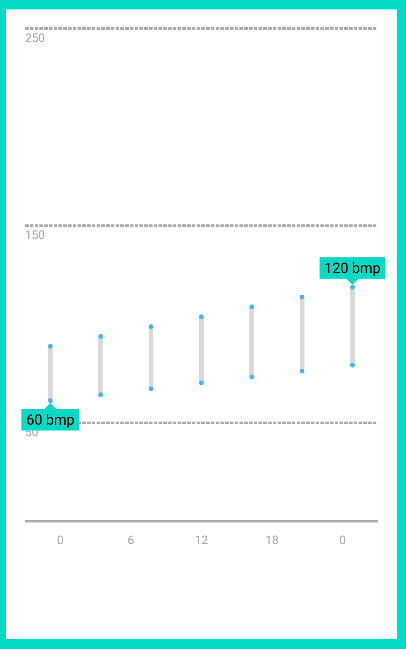
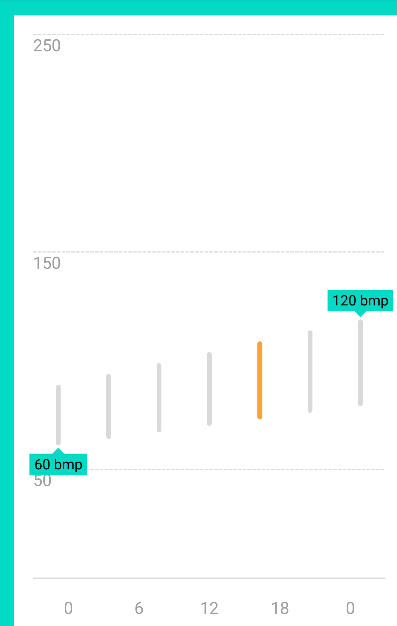
update

diff --git a/library/src/main/java/com/lxk/heartrate/HeartRateGraphWidget.java b/library/src/main/java/com/lxk/heartrate/HeartRateGraphWidget.java
@@ -14,8 +14,6 @@ import android.util.Log;
 import android.view.MotionEvent;
 import android.view.View;
 
-
-
 import com.lxk.heartrate.bean.HeartRateBean;
 
 import java.lang.annotation.Retention;
@@ -42,7 +40,7 @@ public class HeartRateGraphWidget extends View {
     /**
      * 当时选中的时间轴类型
      */
-    private int curShowType = DAY;
+    private int curShowType;
     /**
      * 时间轴时间文字集合
      */
@@ -71,6 +69,10 @@ public class HeartRateGraphWidget extends View {
      * 虚线 实线的颜色
      */
     private int dottedLineColor, solidLineColor;
+    /**
+     * 实线下方的内容高度
+     */
+    private float belowSolidLineHeight;
     /**
      * 坐标系 标记文字的颜色
      * 最高最低心率的文字颜色
@@ -107,7 +109,7 @@ public class HeartRateGraphWidget extends View {
     /**
      * 每天显示的心率渐变效果
      */
-    private LinearGradient linearGradient;
+    private LinearGradient linearGradient, selectLineGradient;
     /**
      * 柱状图的宽度
      */
@@ -121,7 +123,6 @@ public class HeartRateGraphWidget extends View {
      * 选中item线的宽度和颜色
      */
     private float selectLineWidth;
-    private int selectLineColor;
 
     /**
      * 是否显示每天的心率折线图的阴影
@@ -133,7 +134,23 @@ public class HeartRateGraphWidget extends View {
      * 每天的心率折线图的阴影的开始和结束颜色
      */
     private int shaderColorStart, shaderColorEnd;
+    /**
+     * 选中线的渐变颜色
+     */
+    private int selectLineColorStart, selectLineColorMiddle, selectLineColorEnd;
+    /**
+     * 柱状图选中的颜色
+     */
+    private int selectLineColorInHistogram;
 
+    /**
+     * 心跳警告的最大最小值
+     */
+    private int heartRateWarnMax, heartRateWarnMin;
+    /**
+     * 心跳警告线的颜色和高度
+     */
+    private int heartRateWarnLineColor, heartRateWarnLineHeight;
     /**
      * 心率数据集合
      */
@@ -156,6 +173,10 @@ public class HeartRateGraphWidget extends View {
      * 选中item的 x坐标
      */
     private float selectedPointX = -1;
+    /**
+     * 选中柱状图item的 最大最小坐标
+     */
+    private float selectedHistogramMax = -1, selectedHistogramMin = -1;
 
     public HeartRateGraphWidget(Context context) {
         this(context, null);
@@ -179,6 +200,9 @@ public class HeartRateGraphWidget extends View {
 
     private void initAttrs(Context context, AttributeSet attrs) {
         TypedArray ta = context.obtainStyledAttributes(attrs, R.styleable.HeartRateGraphWidget);
+
+        curShowType = ta.getInt(R.styleable.HeartRateGraphWidget_cur_show_type, DAY);
+
         solidLineHeight = ta.getDimensionPixelOffset(R.styleable.HeartRateGraphWidget_solid_line_height, 10);
         solidLineColor = ta.getColor(R.styleable.HeartRateGraphWidget_solid_line_color, 0x26000000);
 
@@ -186,6 +210,7 @@ public class HeartRateGraphWidget extends View {
         dottedLineWidth = ta.getDimensionPixelOffset(R.styleable.HeartRateGraphWidget_dotted_line_width, 30);
         dottedLineGap = ta.getDimensionPixelOffset(R.styleable.HeartRateGraphWidget_dotted_line_gap, 10);
         dottedLineColor = ta.getColor(R.styleable.HeartRateGraphWidget_dotted_line_color, 0x26000000);
+        belowSolidLineHeight = ta.getDimensionPixelOffset(R.styleable.HeartRateGraphWidget_below_solid_line_height, DensityUtils.dpToPx(getContext(), 40));
 
         markTextColor = ta.getColor(R.styleable.HeartRateGraphWidget_mark_text_color, 0x61000000);
         markTextSize = ta.getDimensionPixelOffset(R.styleable.HeartRateGraphWidget_mark_text_size, DensityUtils.dpToPx(context, 10));
@@ -210,7 +235,10 @@ public class HeartRateGraphWidget extends View {
         histogramLineColor = ta.getColor(R.styleable.HeartRateGraphWidget_histogram_line_color, 0xFFD8D8D8);
         histogramDotColor = ta.getColor(R.styleable.HeartRateGraphWidget_histogram_dot_color, 0xFF43B6F4);
 
-        selectLineColor = ta.getColor(R.styleable.HeartRateGraphWidget_select_line_color, 0xFFF33838);
+        selectLineColorStart = ta.getColor(R.styleable.HeartRateGraphWidget_select_line_color_start, 0x2AFF9319);
+        selectLineColorMiddle = ta.getColor(R.styleable.HeartRateGraphWidget_select_line_color_middle, 0xFFFF9319);
+        selectLineColorEnd = ta.getColor(R.styleable.HeartRateGraphWidget_select_line_color_end, 0x2AFF9319);
+        selectLineColorInHistogram = ta.getColor(R.styleable.HeartRateGraphWidget_select_line_color_in_histogram, 0xFFFFA239);
         selectLineWidth = ta.getDimensionPixelOffset(R.styleable.HeartRateGraphWidget_select_line_width, 10);
 
         showDayShader = ta.getBoolean(R.styleable.HeartRateGraphWidget_show_day_shader, true);
@@ -219,6 +247,9 @@ public class HeartRateGraphWidget extends View {
 
         shaderColorStart = ta.getColor(R.styleable.HeartRateGraphWidget_shader_color_start, 0xFFF33838);
         shaderColorEnd = ta.getColor(R.styleable.HeartRateGraphWidget_shader_color_end, 0x10FF0000);
+
+        heartRateWarnLineColor = ta.getColor(R.styleable.HeartRateGraphWidget_heart_rate_warn_line_color, 0xFFFF0000);
+        heartRateWarnLineHeight = ta.getDimensionPixelOffset(R.styleable.HeartRateGraphWidget_heart_rate_warn_line_height, 5);
         ta.recycle();
     }
 
@@ -234,8 +265,6 @@ public class HeartRateGraphWidget extends View {
         maxMinPaint = new Paint(Paint.ANTI_ALIAS_FLAG);
 
         selectPaint = new Paint(Paint.ANTI_ALIAS_FLAG);
-        selectPaint.setColor(selectLineColor);
-        selectPaint.setStrokeWidth(selectLineWidth);
         selectPaint.setStyle(Paint.Style.STROKE);
 
         histogramPaint = new Paint(Paint.ANTI_ALIAS_FLAG);
@@ -245,6 +274,23 @@ public class HeartRateGraphWidget extends View {
         dayHeartRatePaint.setStrokeJoin(Paint.Join.ROUND);
 
         dashPathEffect = new DashPathEffect(new float[]{dottedLineWidth, dottedLineGap}, 0);
+    }
+
+    /**
+     * 设置心跳警告的最大最小值
+     */
+    public void setHeartRateWarnMax(int heartRateWarnMax, int heartRateWarnMin) {
+        this.heartRateWarnMax = heartRateWarnMax;
+        this.heartRateWarnMin = heartRateWarnMin;
+        postInvalidate();
+    }
+
+    /**
+     * 更新当前显示状态
+     */
+    public void setCurShowType(@ShowType int curShowType) {
+        this.curShowType = curShowType;
+        postInvalidate();
     }
 
     /**
@@ -279,7 +325,10 @@ public class HeartRateGraphWidget extends View {
     }
 
     void reset() {
+        linearGradient = null;
+        selectLineGradient = null;
         touchedX = touchedY = -1;
+        selectedHistogramMin = selectedHistogramMax = -1;
         selectedPointX = -1;
     }
 
@@ -290,7 +339,7 @@ public class HeartRateGraphWidget extends View {
         contentTop = getPaddingTop();
         contentWidth = getMeasuredWidth() - contentLeft - getPaddingRight();
         contentHeight = getMeasuredHeight() - contentTop - getPaddingBottom();
-        lineGapHeight = contentHeight / 3F;
+        lineGapHeight = (contentHeight - belowSolidLineHeight) / 2.5F;
     }
 
     @Override
@@ -323,6 +372,12 @@ public class HeartRateGraphWidget extends View {
     @Override
     protected void onDraw(Canvas canvas) {
         super.onDraw(canvas);
+        if (selectLineGradient == null && curShowType == DAY) {
+            selectLineGradient = new LinearGradient(getMeasuredWidth() / 2F, contentTop,
+                    getMeasuredWidth() / 2F, contentTop + contentHeight,
+                    new int[]{selectLineColorStart, selectLineColorMiddle, selectLineColorEnd},
+                    null, Shader.TileMode.CLAMP);
+        }
         drawLineAndMarkText(canvas);
         drawHeartRateGraph(canvas);
     }
@@ -354,7 +409,25 @@ public class HeartRateGraphWidget extends View {
         y -= lineGapHeight / 2F;
         linePaint.setStrokeWidth(solidLineHeight);
         canvas.drawLine(contentLeft, y, contentLeft + contentWidth, y, linePaint);
+
+        drawWarnLine(canvas);
         drawTimeLineText(canvas, y + timeStringTopMargin, textY);
+    }
+
+    /**
+     * 绘制警戒线
+     */
+    private void drawWarnLine(Canvas canvas) {
+        linePaint.setStrokeWidth(heartRateWarnLineHeight);
+        linePaint.setColor(heartRateWarnLineColor);
+        if (heartRateWarnMax != 0) {
+            float maxY = lineGapHeight * 2.5f * (250 - heartRateWarnMax) / 250;
+            canvas.drawLine(contentLeft, maxY, contentLeft + contentWidth, maxY, linePaint);
+        }
+        if (heartRateWarnMin != 0) {
+            float minY = lineGapHeight * 2.5f * (250 - heartRateWarnMin) / 250;
+            canvas.drawLine(contentLeft, minY, contentLeft + contentWidth, minY, linePaint);
+        }
     }
 
     /**
@@ -393,7 +466,22 @@ public class HeartRateGraphWidget extends View {
         if (selectedPointX == -1) {
             return;
         }
-        canvas.drawLine(selectedPointX, contentTop, selectedPointX, contentTop + lineGapHeight * 2.5F, selectPaint);
+        if (curShowType == DAY) {
+            selectPaint.setStrokeCap(Paint.Cap.BUTT);
+            selectPaint.setStrokeWidth(selectLineWidth);
+            selectPaint.setShader(selectLineGradient);
+            canvas.drawLine(selectedPointX, contentTop, selectedPointX, contentTop + lineGapHeight * 2.5F, selectPaint);
+            return;
+        }
+        if (selectedHistogramMin == -1) {
+            return;
+        }
+        selectPaint.setShader(null);
+        selectPaint.setStrokeCap(Paint.Cap.ROUND);
+        selectPaint.setStrokeWidth(histogramWidth);
+        selectPaint.setStyle(Paint.Style.FILL);
+        selectPaint.setColor(selectLineColorInHistogram);
+        canvas.drawLine(selectedPointX, selectedHistogramMax + histogramWidth, selectedPointX, selectedHistogramMin - histogramWidth, selectPaint);
     }
 
     /**
@@ -465,11 +553,14 @@ public class HeartRateGraphWidget extends View {
         }
         canvas.drawPath(dayHeartRatePath, dayHeartRatePaint);
         if (showDayShader) {
-            linearGradient = new LinearGradient(getMeasuredWidth() / 2F, maxPosition[1],
-                    getMeasuredWidth() / 2F, startY,
-                    new int[]{shaderColorStart, shaderColorEnd},
-                    null, Shader.TileMode.CLAMP);
+            if (linearGradient == null) {
+                linearGradient = new LinearGradient(getMeasuredWidth() / 2F, maxPosition[1],
+                        getMeasuredWidth() / 2F, startY,
+                        new int[]{shaderColorStart, shaderColorEnd},
+                        null, Shader.TileMode.CLAMP);
+            }
             dayHeartRatePaint.setShader(linearGradient);
+            canvas.drawPath(dayHeartRateShaderPath, dayHeartRatePaint);
             dayHeartRatePaint.setStyle(Paint.Style.FILL);
             canvas.drawPath(dayHeartRateShaderPath, dayHeartRatePaint);
             dayHeartRatePaint.setShader(null);
@@ -519,7 +610,6 @@ public class HeartRateGraphWidget extends View {
         configMaxMinRatePath(minRatePath, minPosition, minRateTotalLen, height, false);
         canvas.drawPath(minRatePath, maxMinPaint);
         maxMinPaint.setColor(MaxMinTextColor);
-        maxMinPaint.setStyle(Paint.Style.STROKE);
         canvas.drawText(maxRateString, maxPosition[0] - maxRateLen / 2,
                 maxPosition[1] - maxMinTriAngleHeight - height + maxMinBlockTopBottomPadding - maxMinPaint.ascent(),
                 maxMinPaint);
@@ -561,10 +651,14 @@ public class HeartRateGraphWidget extends View {
 
         for (List<HeartRateBean> beans : dataList) {
             for (HeartRateBean bean : beans) {
-                float x = getPaddingLeft() + perWidth * bean.index - perWidth / 2;
-                checkSelectItem(bean, x, histogramWidth);
+                float x = contentLeft + perWidth * bean.index - perWidth / 2;
+                checkSelectItem(bean, x, histogramWidth * 2);
                 float top = startY - bean.max * preHeight;
                 float bottom = startY - bean.min * preHeight;
+                if (Float.valueOf(selectedPointX).equals(x)) {
+                    selectedHistogramMax = top;
+                    selectedHistogramMin = bottom;
+                }
                 if (bean.max > max) {
                     max = bean.max;
                     maxPosition[0] = x;
@@ -579,11 +673,6 @@ public class HeartRateGraphWidget extends View {
                 histogramPaint.setStrokeWidth(histogramWidth);
                 histogramPaint.setColor(histogramLineColor);
                 canvas.drawLine(x, top + histogramWidth, x, bottom - histogramWidth, histogramPaint);
-                histogramPaint.setColor(histogramDotColor);
-                histogramPaint.setStyle(Paint.Style.FILL);
-                float radius = histogramWidth / 2;
-                canvas.drawCircle(x, top + radius, radius, histogramPaint);
-                canvas.drawCircle(x, bottom - radius, radius, histogramPaint);
             }
         }
         drawMaxMin(max, min, maxPosition, minPosition, canvas);
@@ -632,13 +721,5 @@ public class HeartRateGraphWidget extends View {
          * @param heartRateBean 包装数据
          */
         void onItemSelected(HeartRateBean heartRateBean);
-    }
-
-    public class Builder {
-        private int curShowType;
-        private List<String> timeStrings;
-        private float selectLineWidth;
-        private int selectLineColor;
-        private List<List<HeartRateBean>> dataList;
     }
 }

diff --git a/README.md b/README.md
@@ -28,38 +28,42 @@ dependencies {
 
 #### Usage
 ```
-<com.lxk.heartrate.HeartRateGraphWidget
-    android:id="@+id/heart_rate"
-    android:layout_width="match_parent"
-    android:layout_height="match_parent"
-    android:layout_margin="16dp"
-    android:background="#FFFFFF"
-    android:padding="16dp"
-    app:day_heart_rate_line_color="#80FF0000"
-    app:day_heart_rate_line_with="1dp"
-    app:day_heart_rate_max_show="100"
-    app:dotted_line_color="@android:color/darker_gray"
-    app:dotted_line_gap="1dp"
-    app:dotted_line_height="2dp"
-    app:dotted_line_width="3dp"
-    app:mark_text_color="@android:color/darker_gray"
-    app:mark_text_size="10sp"
-    app:max_min_bg_color="@color/colorAccent"
-    app:max_min_text_color="@android:color/black"
-    app:max_min_text_left_right_padding="4dp"
-    app:max_min_text_size="12sp"
-    app:max_min_text_top_bottom_padding="2dp"
-    app:max_min_text_triangle_height="5dp"
-    app:select_line_color="#FFFF0000"
-    app:select_line_width="1dp"
-    app:shader_color_end="#20FF0000"
-    app:shader_color_start="#80FF0000"
-    app:show_day_shader="true"
-    app:show_max_min="true"
-    app:show_test_data="true"
-    app:solid_line_color="@android:color/darker_gray"
-    app:solid_line_height="2dp"
-    app:time_string_top_margin="8dp" />
+ <com.lxk.heartrate.HeartRateGraphWidget
+        android:id="@+id/heart_rate"
+        android:layout_width="match_parent"
+        android:layout_height="match_parent"
+        android:layout_margin="16dp"
+        android:background="#FFFFFF"
+        android:padding="16dp"
+        android:paddingLeft="24dp"
+        android:paddingRight="24dp"
+        app:below_solid_line_height="40dp"
+        app:cur_show_type="WEEK"
+        app:day_heart_rate_line_color="#FFF33838"
+        app:day_heart_rate_line_with="1dp"
+        app:day_heart_rate_max_show="100"
+        app:dotted_line_color="#26000000"
+        app:dotted_line_gap="1dp"
+        app:dotted_line_height="1dp"
+        app:dotted_line_width="3dp"
+        app:heart_rate_warn_line_height="1dp"
+        app:mark_text_color="#61000000"
+        app:mark_text_size="14sp"
+        app:max_min_bg_color="@color/colorAccent"
+        app:max_min_text_color="@android:color/black"
+        app:max_min_text_left_right_padding="4dp"
+        app:max_min_text_size="12sp"
+        app:max_min_text_top_bottom_padding="2dp"
+        app:max_min_text_triangle_height="5dp"
+        app:select_line_width="1dp"
+        app:shader_color_end="#1AF33838"
+        app:shader_color_start="#B3F33838"
+        app:show_day_shader="true"
+        app:show_max_min="true"
+        app:show_test_data="true"
+        app:solid_line_color="#26000000"
+        app:solid_line_height="1dp"
+        app:time_string_top_margin="16dp" />
 ```
 
 ---
